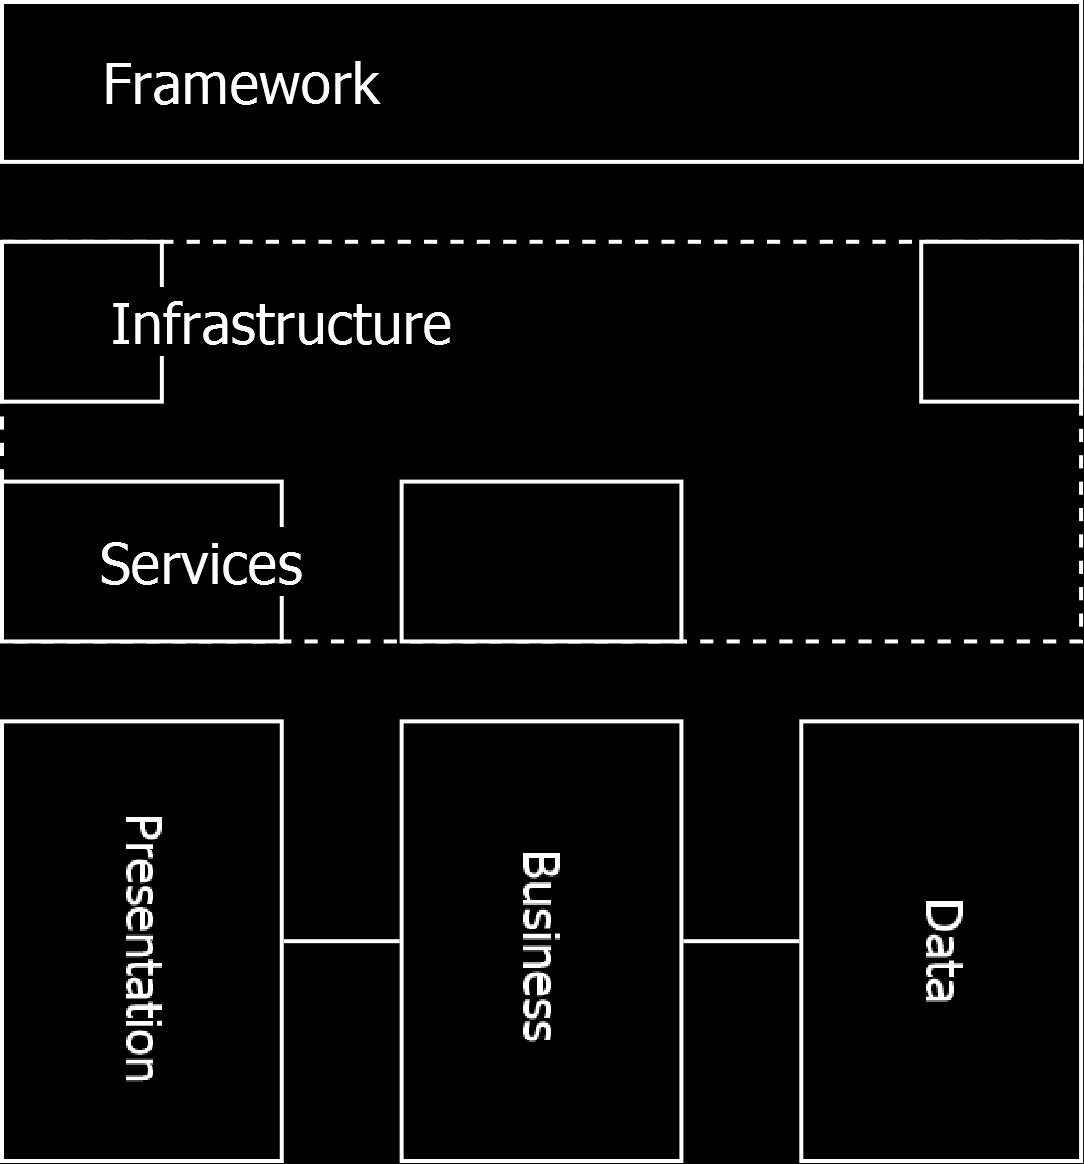
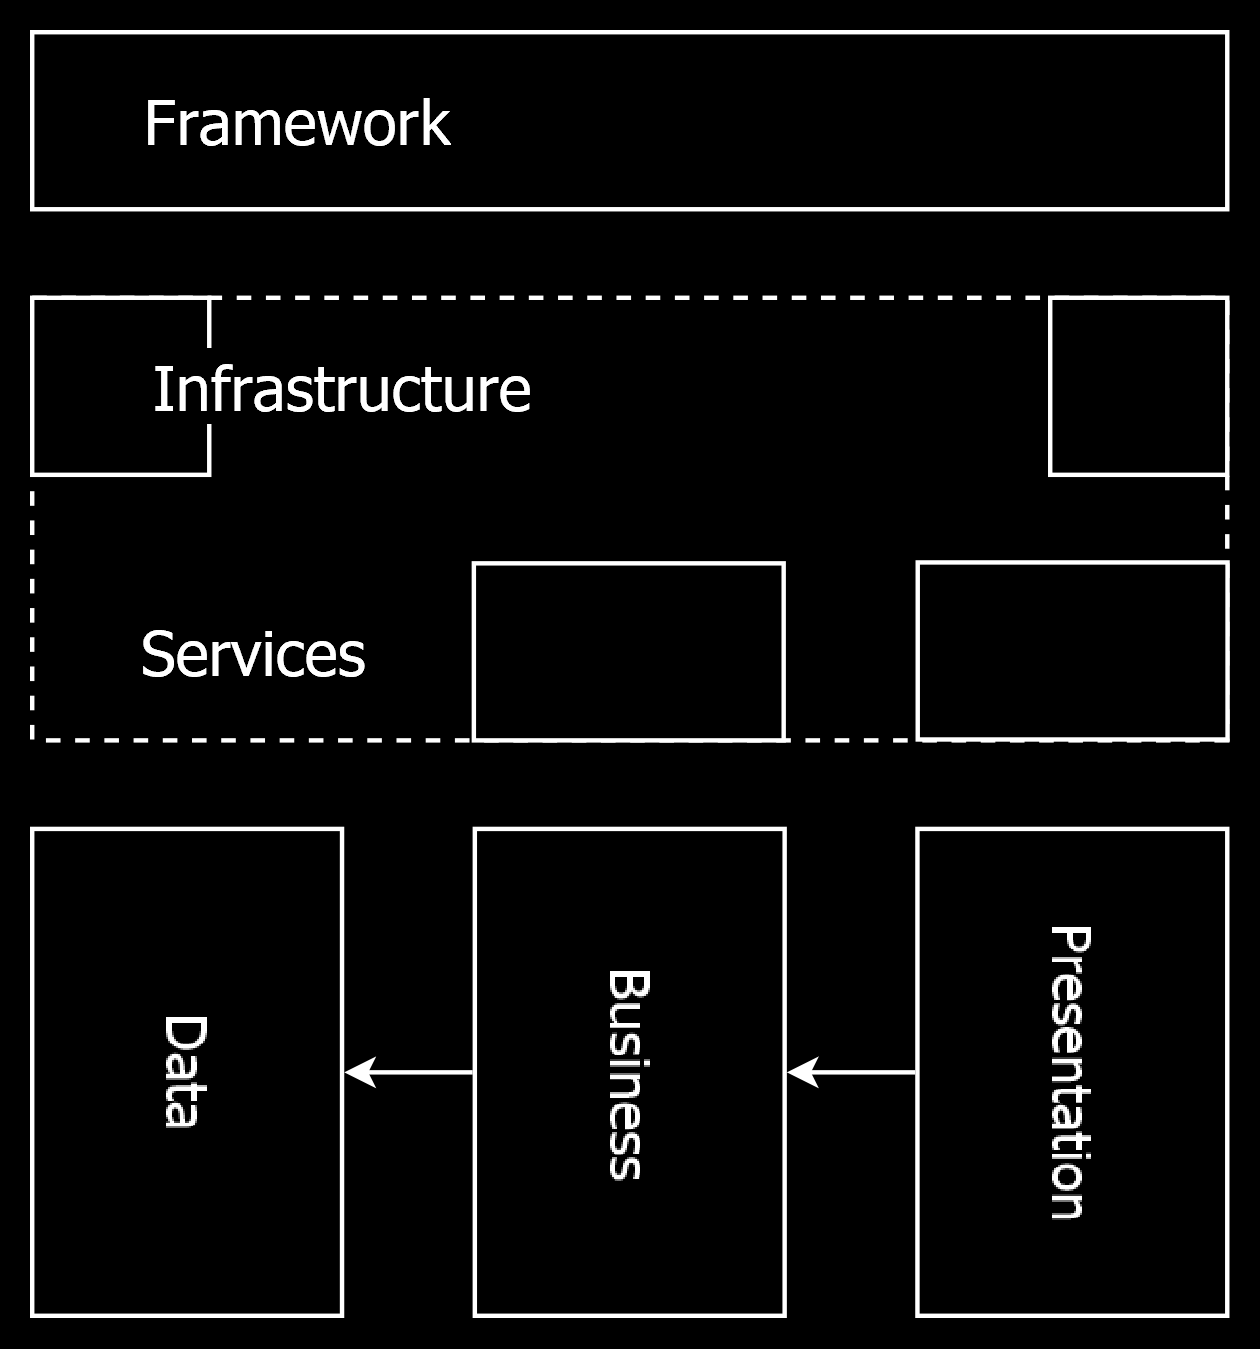
✨ Layers: Added general intro, renaming original Introduction to Three Layers, adding definitions at beginning of main layer sections. Flipped Data-Business-Presentation blocks in Perpendicular Layers diagram.

diff --git a/layers.md b/layers.md
@@ -3,9 +3,11 @@
 
 [back](.)
 
+Software is built up of layers. This article describes how these layers might be structured. Each layer comes with choosing specific technology.
+
 <h3>Contents</h3>
 
-- [Introduction](#introduction)
+- [Three Layers](#three-layers)
 - [Data Layer](#data-layer)
     - [Database (DB)](#database-db)
     - [ORM (NHibernate)](#orm-nhibernate)
@@ -50,13 +52,13 @@
     - [Infrastructure](#infrastructure)
     - [Loosely Coupled](#loosely-coupled)
     - [Services](#services)
-- [Alternative](#alternative)
+- [Alternatives](#alternatives)
 
 
-Introduction
-------------
+Three Layers
+--------
 
-Software might be split up into 3 layers:
+Software might be split up into `3` layers:
 
 <img src="images/data-business-presentation.png" width="141" />
 
@@ -78,7 +80,7 @@ The [data](#data-layer) layer may be programmed with mostly fixed patterns in th
 Data Layer
 ----------
 
-A data layer can be built up of the following sub-layers:
+The *data layer* models and stores the data. It might be built up of the following sub-layers:
 
 <img src="images/data-layer.png" width="400" />
 
@@ -118,7 +120,7 @@ The dashed line going right through the [diagram](#data-layer), separates the *p
 Presentation Layer
 ------------------
 
-A presentation layer in this architecture can be built up of the following sub-layers:
+The *presentation* layer is the visual part of a program. It is what the user sees. It can be split up into the following sub-layers:
 
 <img src="images/presentation-layer.png" width="350" />
 
@@ -196,9 +198,9 @@ That means that we can use the same kind of application logic for multiple prese
 Business Layer
 --------------
 
-<img src="images/business-layer.png" width="357" />
+What is business logic? Basically anything that is not [presentation](#presentation-layer), [data access](#data-layer) or [infrastructure](#perpendicular-layers), might be considered the [business logic](#business-layer). It defines the *rules* of a system, like the internal, mechanical parts. It might be split up into the following things:
 
-What is business logic? Basically anything that is not [presentation](#presentation-layer), [data access](#data-layer) or [infrastructure](#perpendicular-layers), might be considered the [business logic](#business-layer).
+<img src="images/business-layer.png" width="357" />
 
 ### Layer Connections
 
@@ -303,9 +305,9 @@ What's meant with *services* in this architecture, is exposing [business logic](
 Because *services* are about a specific network / communication protocol here, this *service* layer might be considered part of the *infrastructure* too.
 
 
-Alternative
------------
+Alternatives
+------------
 
-Here is a variation on this architectural layering, that might also sometimes be used: [data](#data-layer) and [business](#business-layer) in one layer. Benefit: Might be easier to understand. Downside: More likely for [data access](#data-layer) and [business](#business-layer) to get entangled. No [repositories](patterns.md#repository). Just C# interfaces for everything. Not bothering with what's [data](#data-layer) or [business](#business-layer) or [repository](patterns.md#repository). It would still keep things [loosely coupled](practices-and-principles.md#loose-coupling) things and [separation between concerns](practices-and-principles.md#separation-of-concerns) would also still be there.
+Here is a variation on this architectural layering, that might also sometimes be used: [data](#data-layer) and [business](#business-layer) in one layer. Benefit: Might be easier to understand. Downside: More likely for [data access](#data-layer) and [business](#business-layer) to get entangled. No [repositories](patterns.md#repository). Just C# interfaces for everything. Not bothering with what's [data](#data-layer) or [business](#business-layer) or [repository](patterns.md#repository). It would still keep things [loosely coupled](practices-and-principles.md#loose-coupling) and [separation between concerns](practices-and-principles.md#separation-of-concerns) would also still be there.
 
 [back](.)
